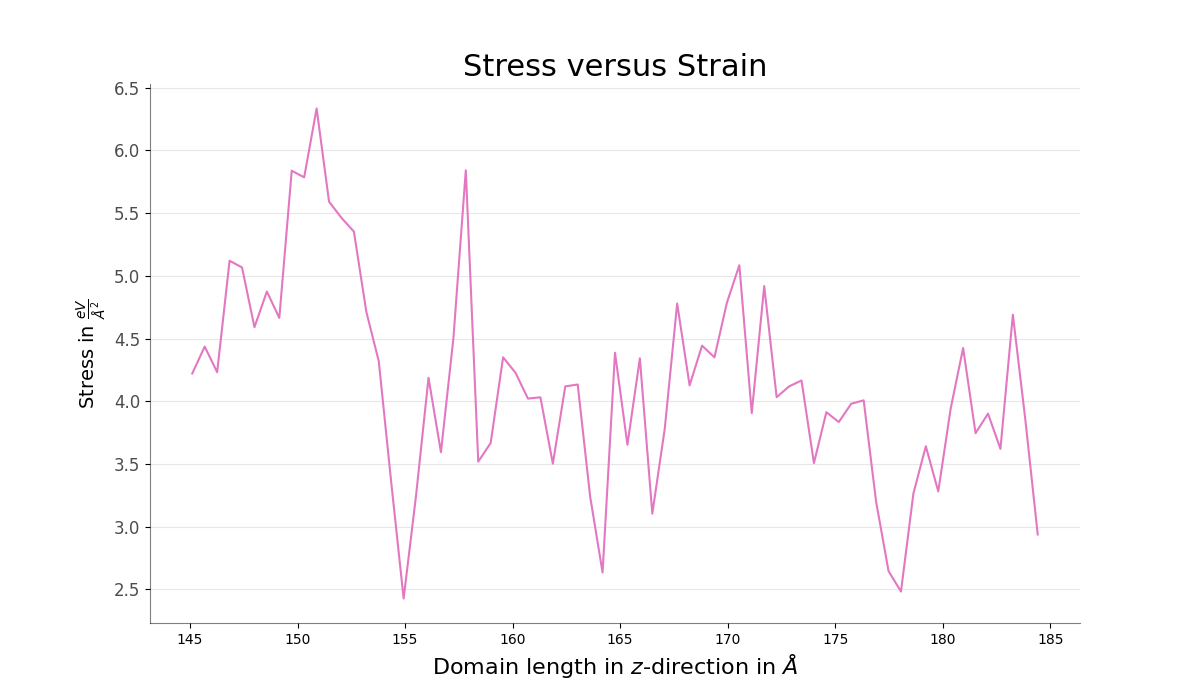
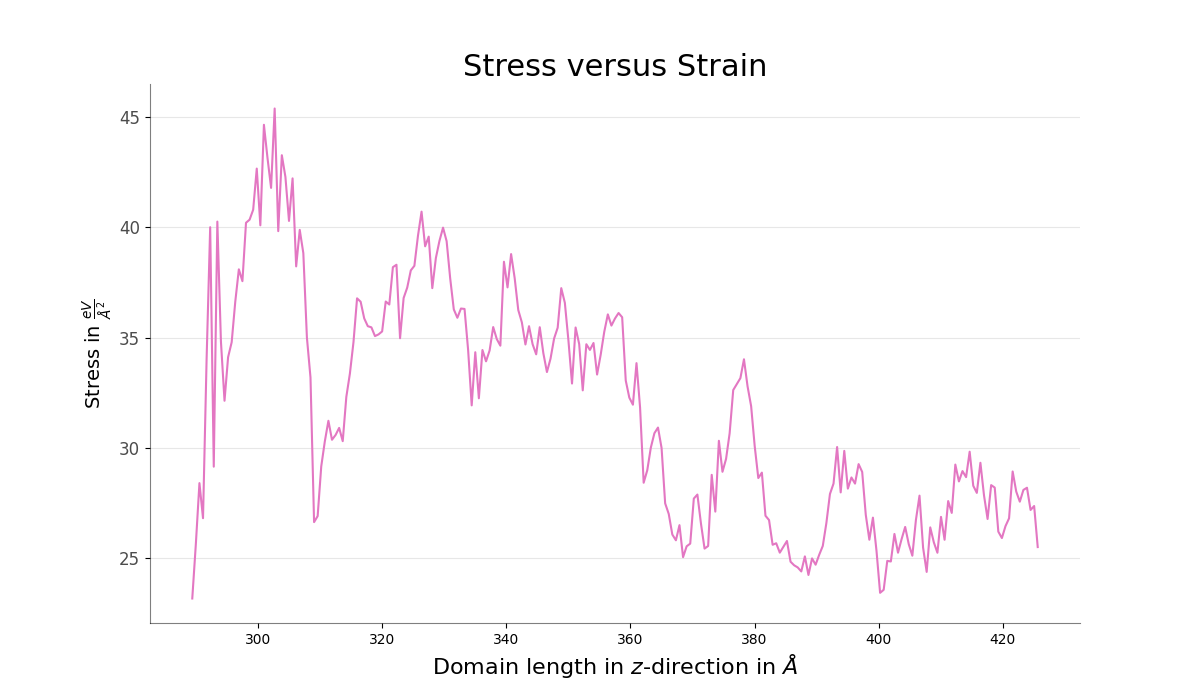
added image of stress strain

diff --git a/milestones/09/plot_stress_strain.py b/milestones/09/plot_stress_strain.py
@@ -8,7 +8,7 @@ labels = [r"$E_\mathrm{total}$", r"Temperature}"]
 headers = ["Etotal", "Temperature", "xStress", "yStress", "zStress", "zDomainSize"]
 
 # Import Data
-df = pd.read_csv(r'ovito/energy_whisker_small.csv', header=None, sep="\t")
+df = pd.read_csv(r'ovito/energy_whisker_large.csv', header=None, sep="\t")
 df.columns = headers
 
 # Draw Plot
